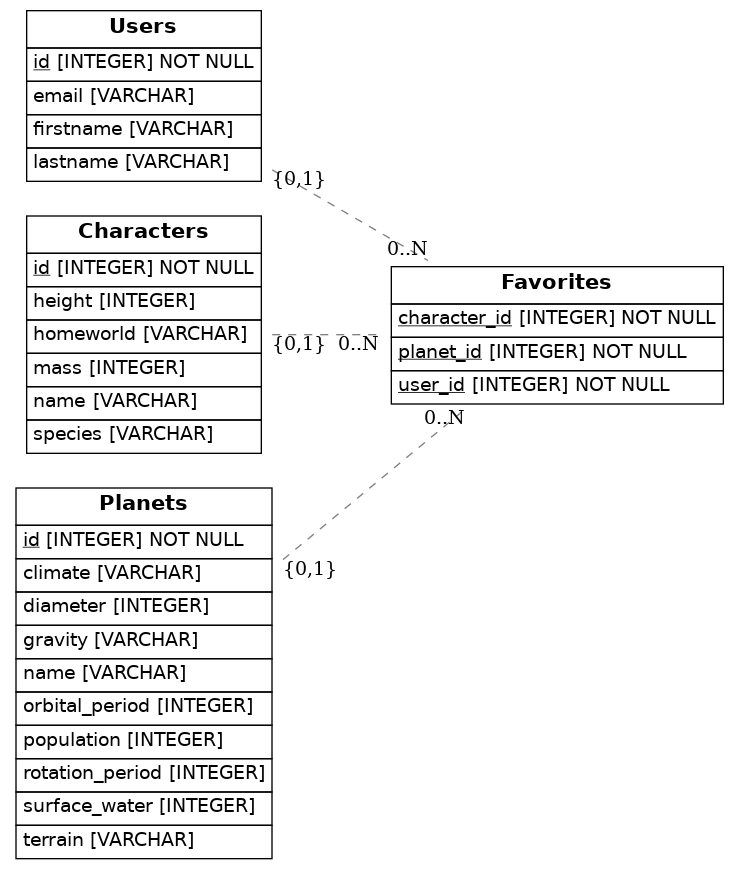
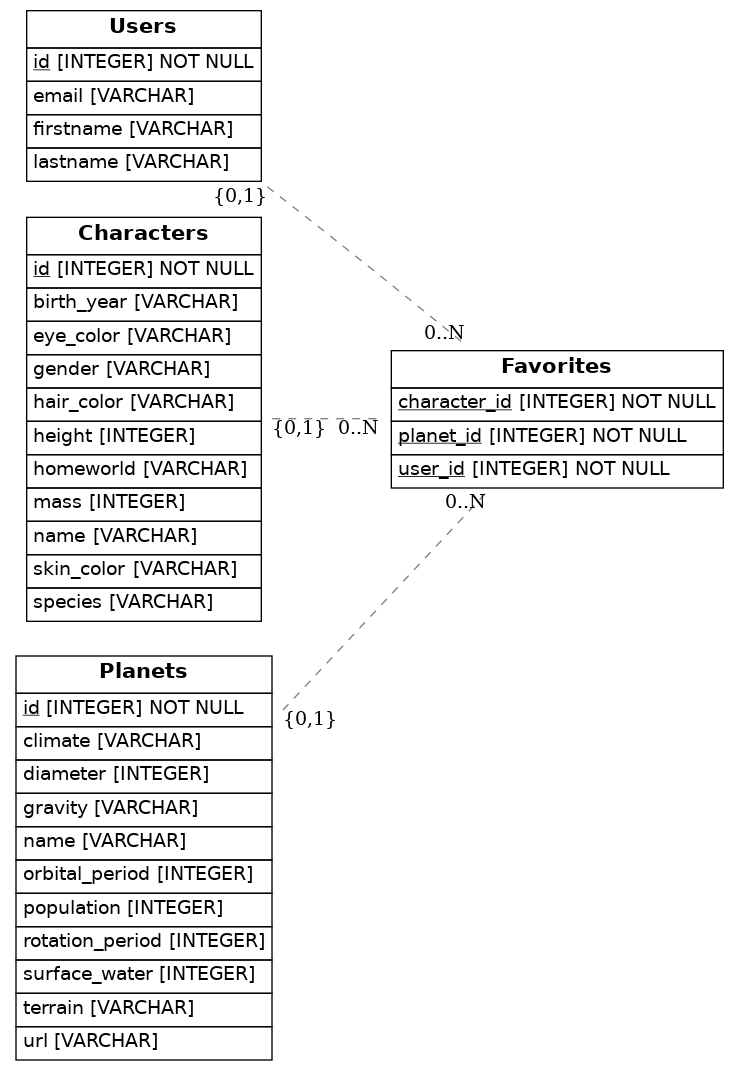
need to add session.commit() but need to generate database url with sqlite or similar first

Changed region(s): [[0.0, 0.0, 0.4668, 0.9942], [0.3735, 0.2796, 0.9959, 0.4971]]

diff --git a/src/models.py b/src/models.py
@@ -36,12 +36,13 @@ class Character(Base):
     id = Column(Integer, primary_key=True)
     mass = Column(Integer)
     height = Column(Integer)
-    hair_color: Column(String)
-    skin_color: Column(String)
-    eye_color: Column(String)
-    birth_year: Column(Integer)
+    hair_color = Column(String)
+    skin_color = Column(String)
+    eye_color = Column(String)
+    birth_year = Column(String)
     species = Column(String)
     homeworld = Column(String)
+    gender = Column(String)
     name = Column(String)
 
 class Planet(Base):
@@ -56,6 +57,7 @@ class Planet(Base):
     terrain = Column(String)
     surface_water = Column(Integer)
     name = Column(String)
+    url = Column(String)
 
 ## Draw from SQLAlchemy base
 render_er(Base, 'diagram.png')
@@ -66,3 +68,15 @@ engine = create_engine('sqlite:///starwars.db')
 # Create a session to manage the database
 Session = sessionmaker(bind=engine)
 session = Session()
+
+planet1 = Planet(climate="Arid", diameter=10465, gravity="1", name="Tatooine", orbital_period=304, population=120000, rotation_period=23, surface_water=1, terrain="Dessert", url="https://www.swapi.tech/api/planets/1")
+planet2 = Planet(diameter=12240, rotation_period=24, orbital_period=368, gravity="1 standard", population=1000000000000, climate="temperate", terrain="cityscape, mountains", surface_water="unknown", name="Coruscant", url="https://www.swapi.tech/api/planets/9")
+
+session.add(planet1)
+session.add(planet2)
+
+character1 = Character(birth_year="19 BBY", eye_color="Blue", gender="Male", hair_color="Blond", height=172, homeworld="https://www.swapi.tech/api/planets/1/", mass=77, name="Luke Skywalker", skin_color="Fair")
+character2 = Character(name="Leia Organa", height=150, mass=49, hair_color="brown", skin_color="light", eye_color="brown", birth_year="19BBY", gender="female", homeworld="https://www.swapi.tech/api/planets/2")
+
+session.add(character1)
+session.add(character2)
